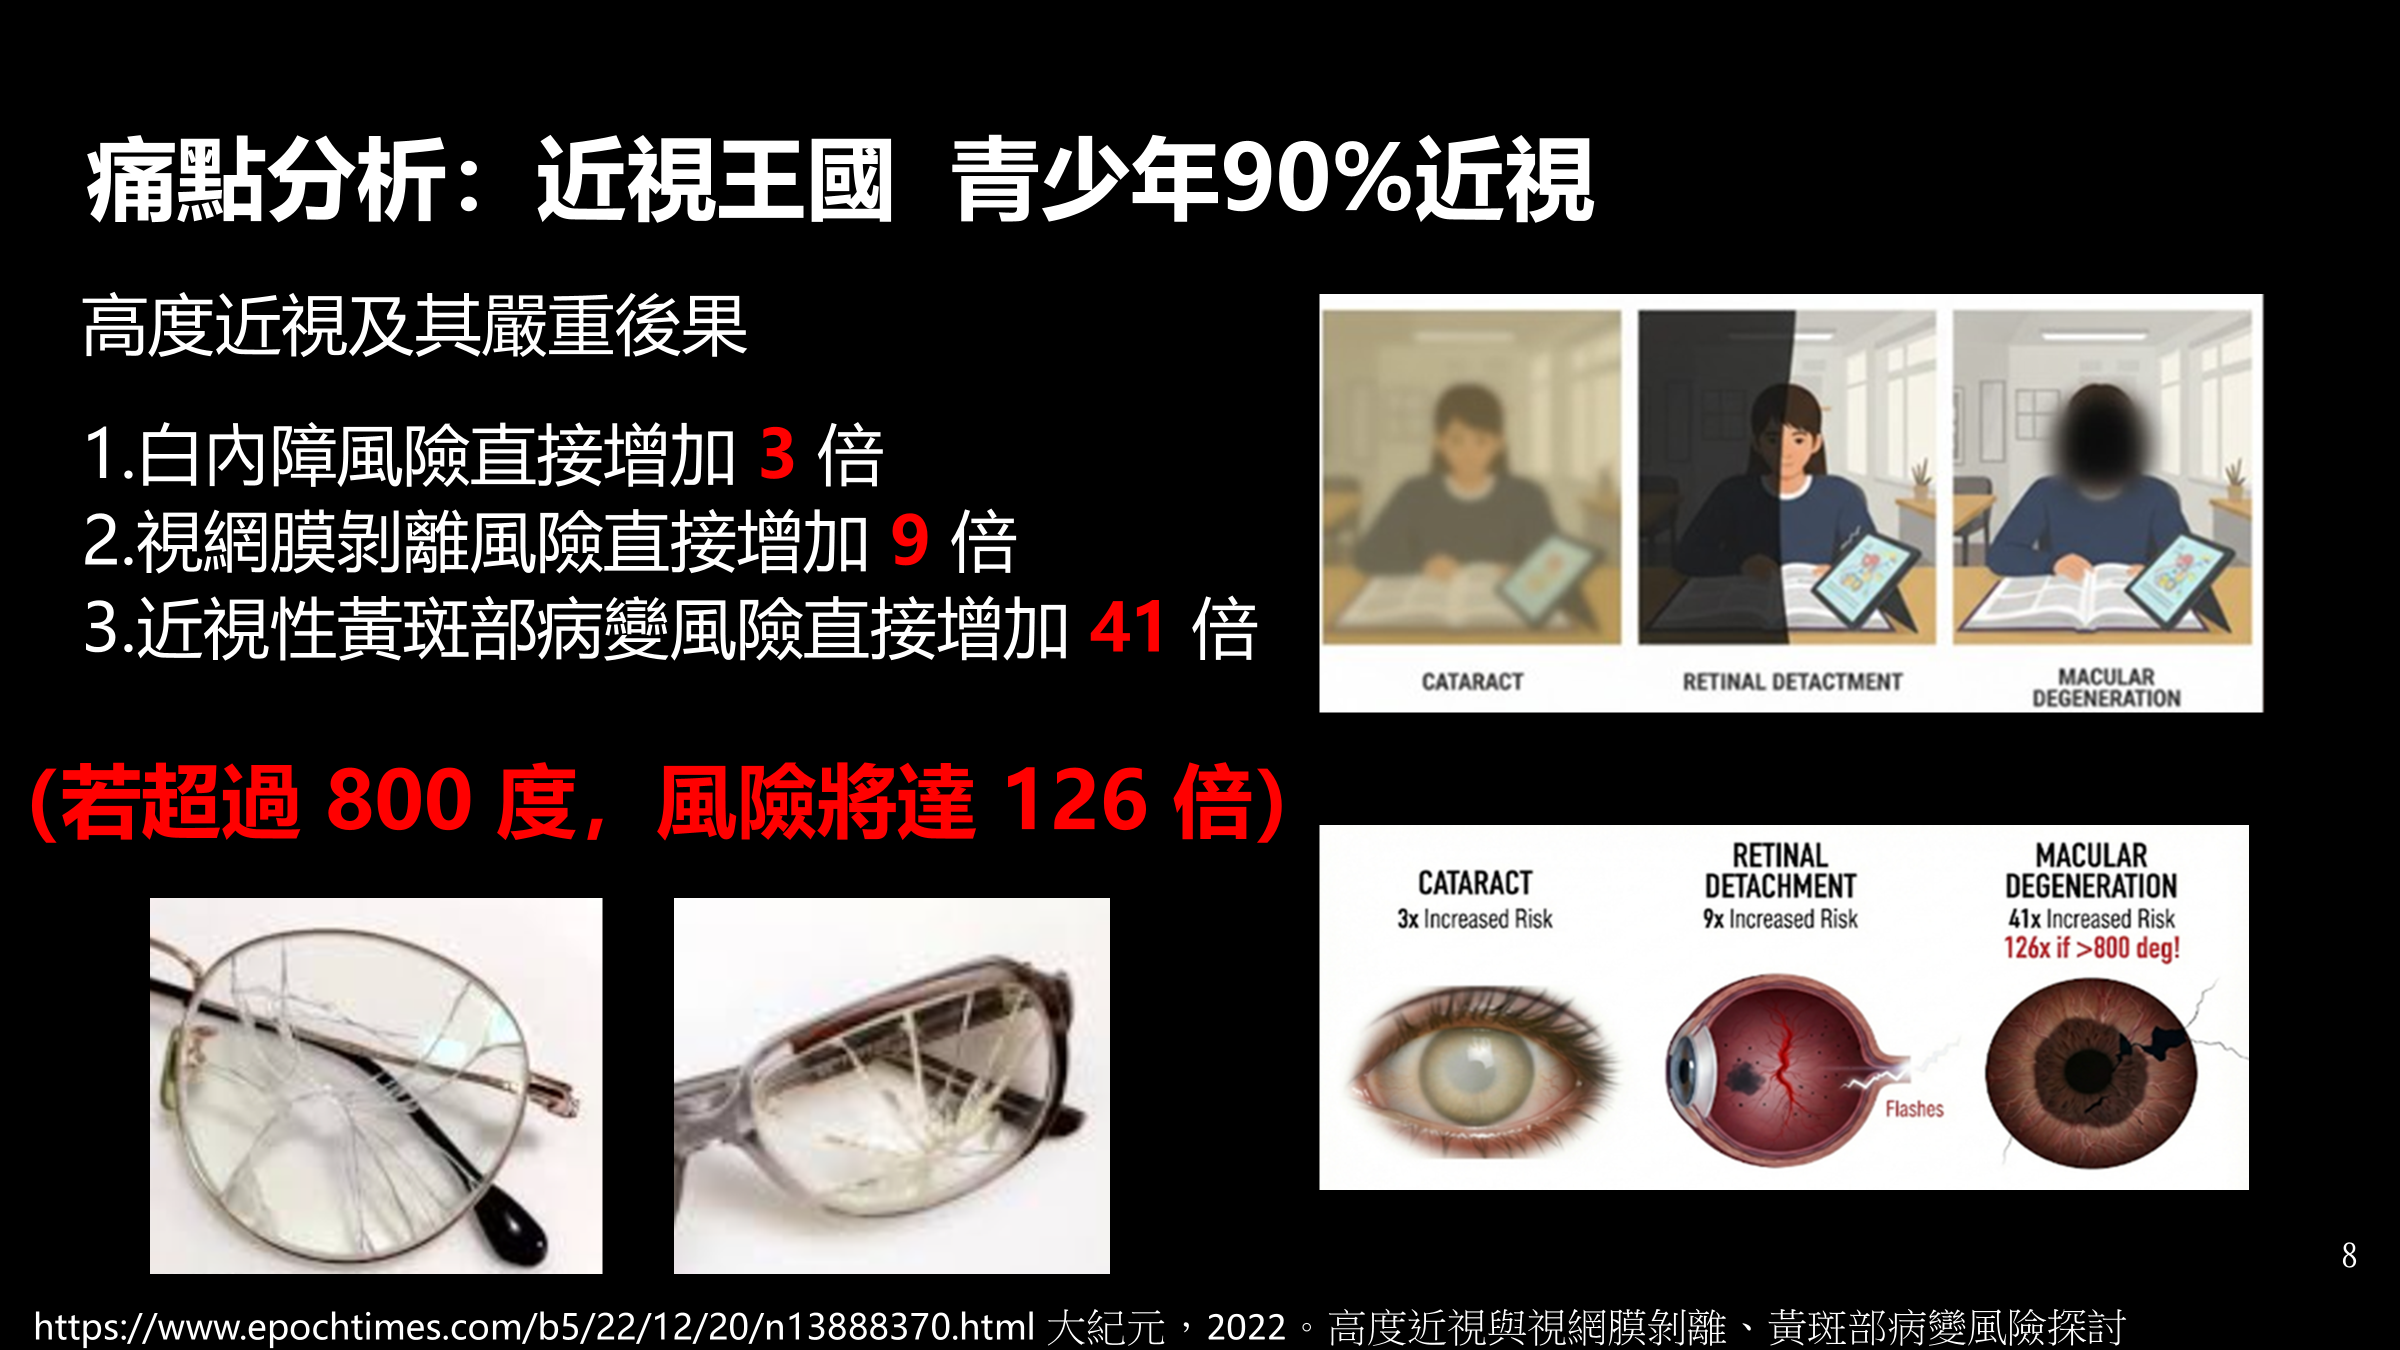
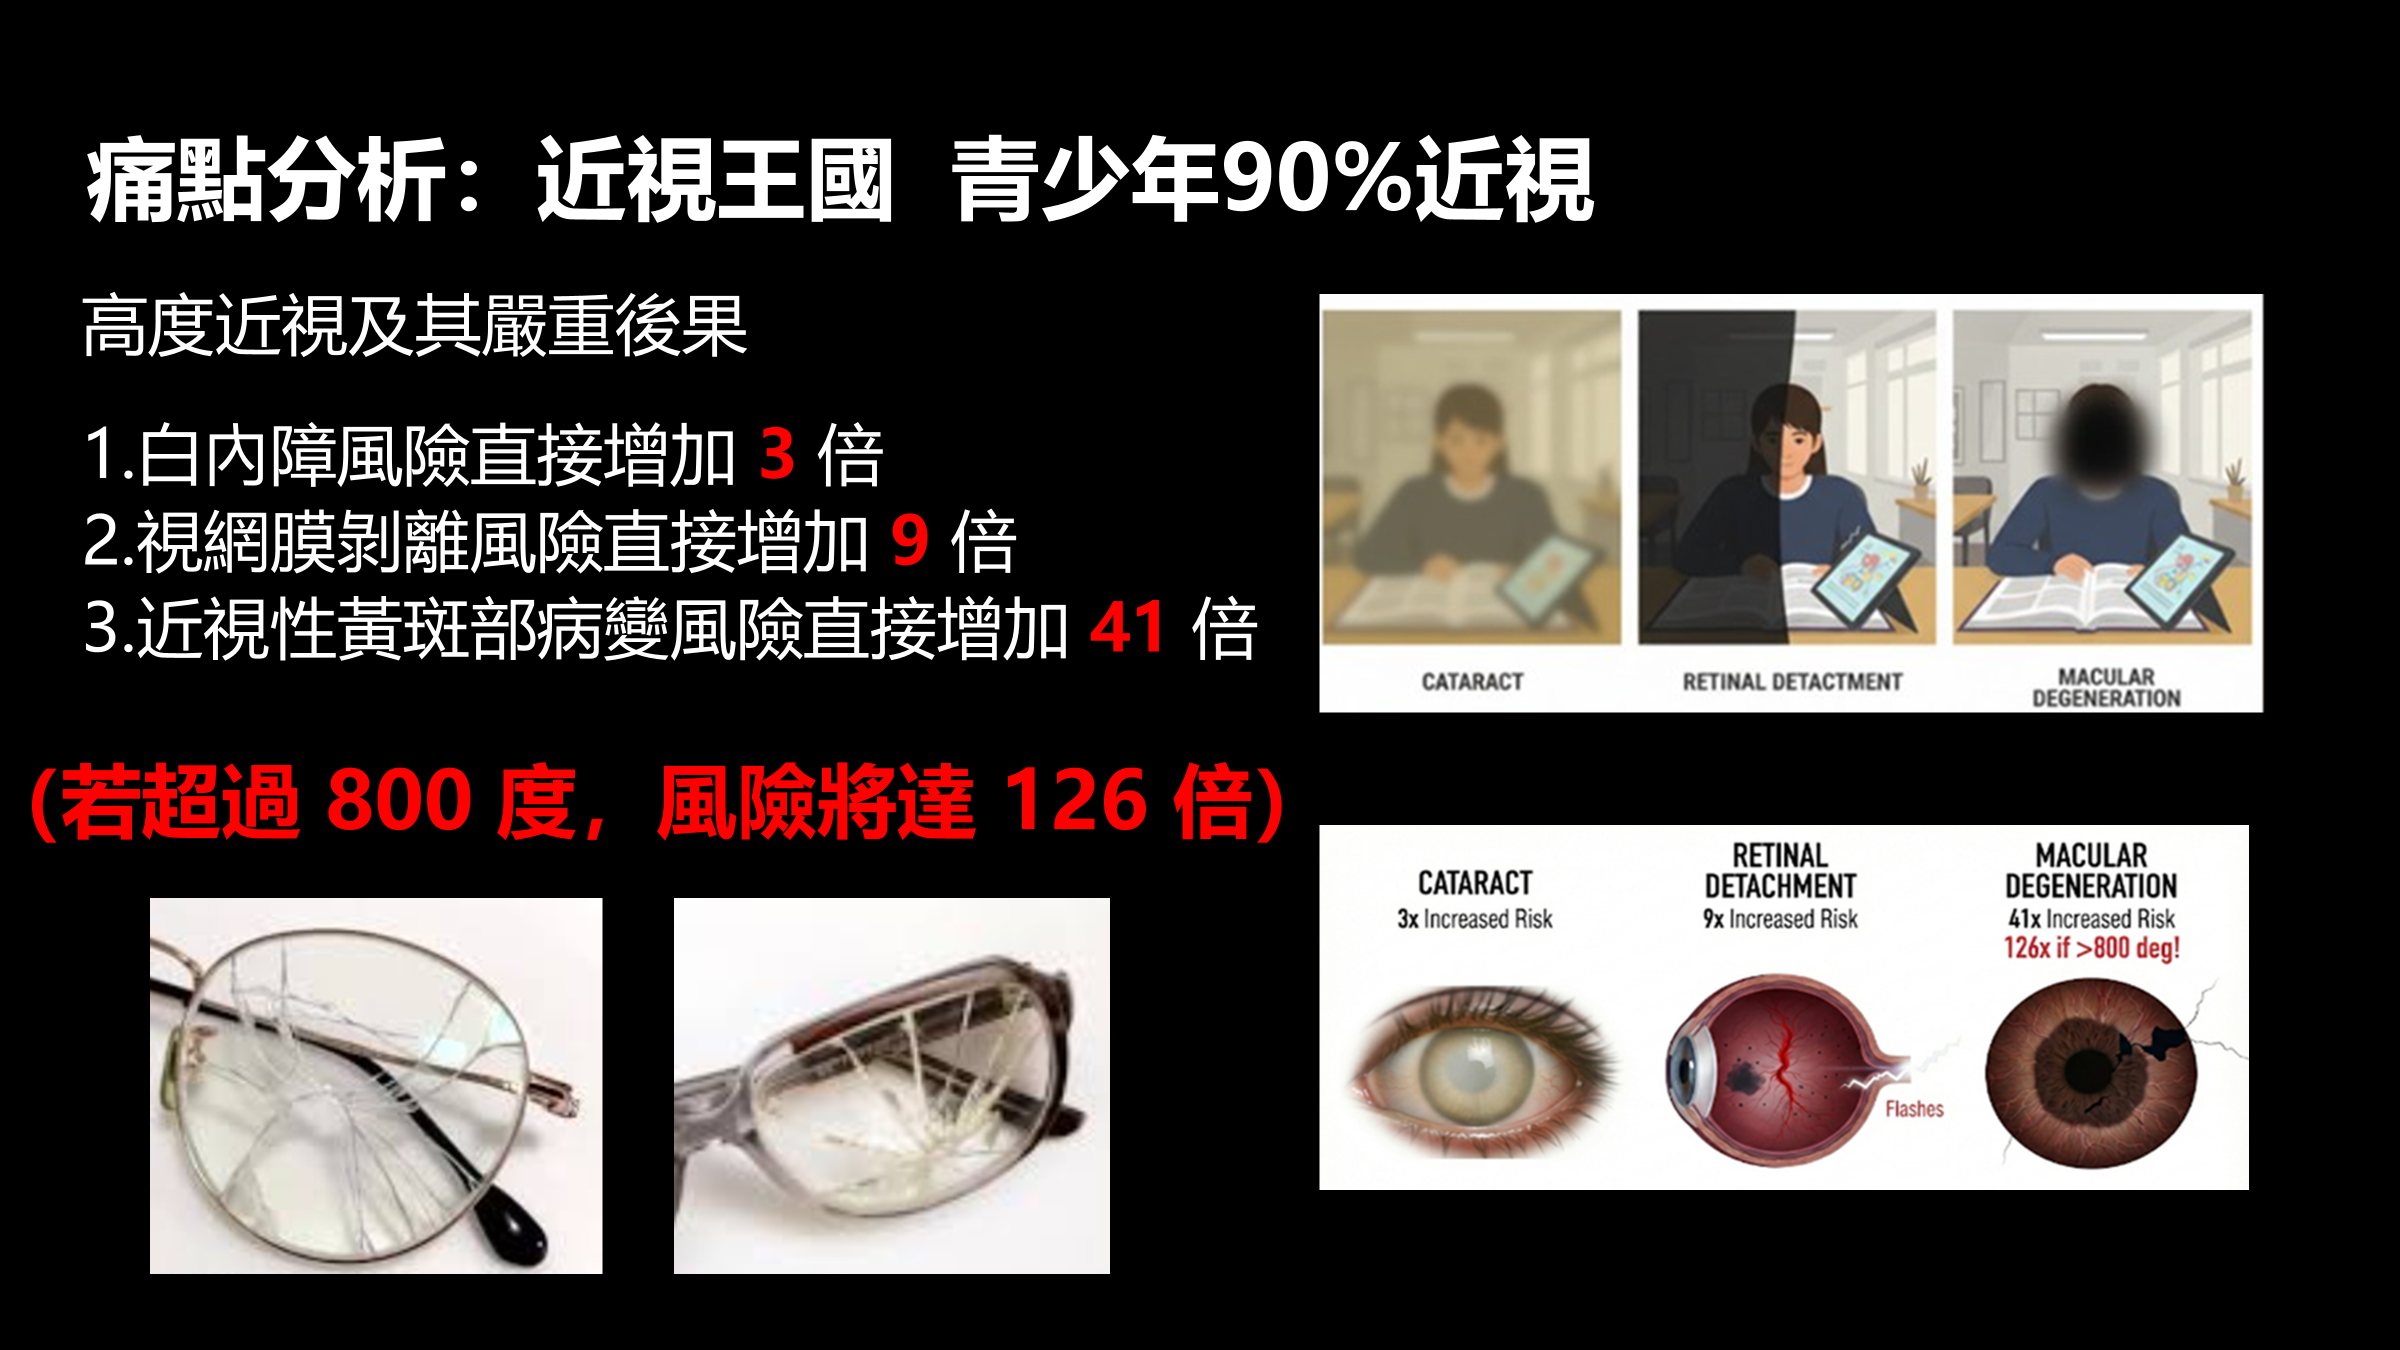
Update demo site pain images

Changed region(s): [[0.0, 0.9644, 0.875, 1.0]]

diff --git a/docs/index.html b/docs/index.html
@@ -233,7 +233,9 @@
     .shot img {
       width: 100%;
       height: 100%;
-      object-fit: cover;
+      object-fit: contain;
+      object-position: center;
+      background: rgba(7, 20, 38, 0.72);
     }
 
     .shot.primary-shot {
@@ -340,8 +342,9 @@
     .demo-card img {
       width: 100%;
       aspect-ratio: 9 / 16;
-      object-fit: cover;
-      object-position: top center;
+      object-fit: contain;
+      object-position: center;
+      background: rgba(7, 20, 38, 0.72);
     }
 
     .demo-card figcaption {
